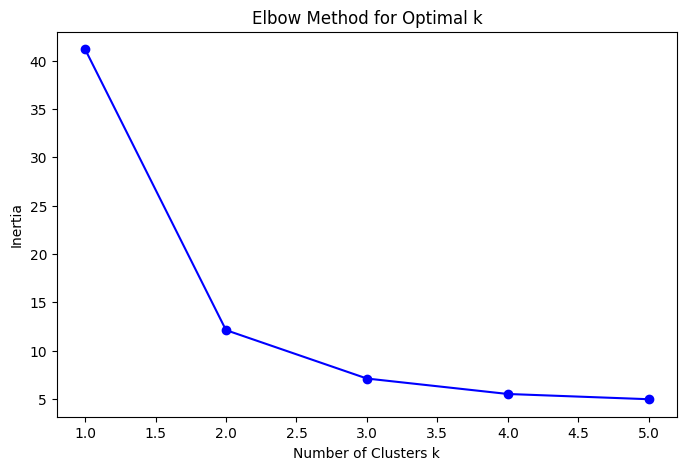
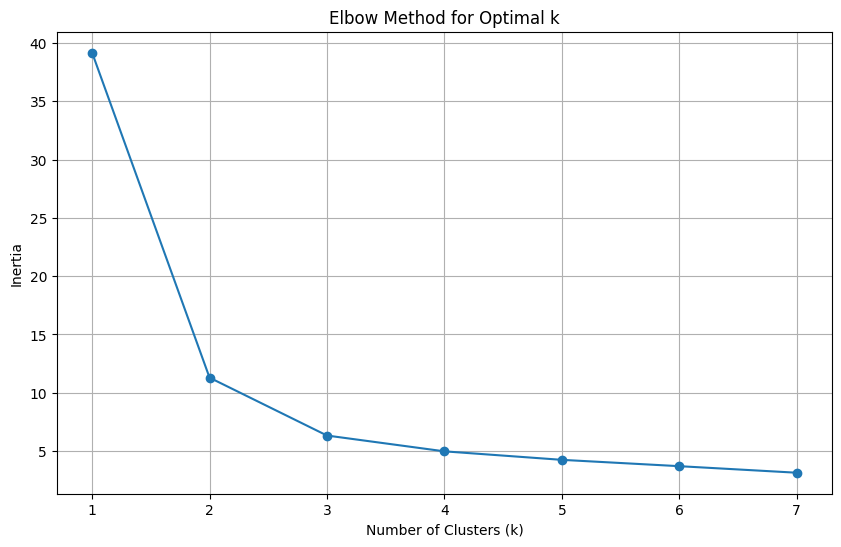
Folde Reame and visualization images

diff --git a/README.md b/README.md
@@ -353,13 +353,204 @@ The bar chart titled *"Top 10 Countries by Total Sales"* displays the total sale
 
 
 ---
+# *Section-2*
+## *Task 1: Iris Data Preprocessing and Exploration*
+
+### *Step 1: Load the Iris dataset*
+```python
+iris = load_iris()
+# Map numeric labels to actual species names for clarity
+iris_df['species'] = iris_df['species'].map({0:'setosa', 1:'versicolor', 2:'virginica'})
+
+# Display first 5 rows
+print("First 5 rows of the dataset:")
+iris_df.head()
+```
+
+![alt text](Section_2\Output_screenshoot\image.png)
+
+### *Step 2:Data Preprocessing*
+```python
+print("\nMissing values in each column:")
+print(iris_df.isnull().sum())
+```
+
+![alt text](Section_2\Output_screenshoot\image1.png)
+### *b) Normalize Features Using Min-Max Scaling and Encoding*
+```python
+scaler = MinMaxScaler()
+iris_scaled = iris_df.copy()
+iris_scaled [iris.feature_names] = scaler.fit_transform(iris_df[iris.feature_names])
+iris_scaled.head()
+# 2c: Encode class labels if needed (label encoding shown here)
+label_encoder = LabelEncoder()
+iris_df['species_encoded'] = label_encoder.fit_transform(iris_df['species'])
+
+```
+![alt text](Section_2\Output_screenshoot\image2.png)
+### *Step 3: Data Exploration*
+
+![alt text](Section_2\Output_screenshoot\image3.png)
+
+### *Interpret the Summary Statistics*
+
+- *The summary statistics indicate that all features—sepal length, sepal width, petal length, and petal width—have been normalized to the range \[0, 1] using Min-Max scaling*
+
+- *The feature means are approximately 0.43–0.47, and standard deviations range from 0.18 to 0.32, reflecting moderate variability among samples.* 
+
+- *The medians (50th percentile) show that sepal length and width are balanced around 0.42, whereas petal length and width are slightly higher, highlighting differences across species.*
+
+- *This preprocessing ensures that all features contribute equally to models such as K-Means, Decision Tree, or KNN, and prevents bias from differently scaled features.*
+
+## *3b: Visualizations*
+### *Pairplot*
+
+![alt text](Section_2\Visualization\pair_plot.png)
+### *Plot Components*
+
+* *Diagonal (KDE plots):* Show distribution of each variable.
+  *Example:* *Setosa* has smaller `sepal length` than *virginica*, with *versicolor* in between.
+
+* *Off-diagonal (Scatter plots):* Show pairwise relationships between variables.
+  *Example:* `sepal width` vs. `sepal length` highlights some overlap between *versicolor* and *virginica*.
 
 
 
-## *Instructions to Run*
+### *Key Insights*
 
+* *Petal measurements:* Excellent predictors; *setosa* is clearly separable, while *versicolor* and *virginica* mostly separate.
+* *Sepal measurements:* Less effective; significant overlap between *versicolor* and *virginica*.
+* *Correlations:* Strong positive correlation between `petal length` and `petal width`; moderate correlation between `sepal length` and petal features.
+### *Correlation heatmap*
+![alt text](Section_2\Visualization\Feature_correlation.png)
+
+### *Key Insights*
+
+* *Strongest Positive Correlation:*
+
+  * *`petal length (cm)` ↔ `petal width (cm)` → **0.96***
+  * *Extremely strong, consistent upward relationship. Matches the tight, sloped cluster seen in pair plots.*
+
+* *Other Strong Positive Correlations:*
+
+  * *`sepal length (cm)` ↔ `petal length (cm)` → **0.87***
+  * *`sepal length (cm)` ↔ `petal width (cm)` → **0.82***
+  * *Longer sepals are typically paired with longer and wider petals.*
+
+* *Moderate Negative Correlations:*
+
+  * *`sepal width (cm)` ↔ `petal length (cm)` → **-0.43***
+  * *`sepal width (cm)` ↔ `petal width (cm)` → **-0.37***
+  * *Wider sepals tend to correspond to smaller petals.*
+
+* *Very Weak Correlation:*
+
+  * *`sepal length (cm)` ↔ `sepal width (cm)` → **-0.12***
+  * *Almost no linear relationship; scatter plot appears random.*
+
+### *3c: Identify potential outliers using boxplots*
+![alt text](Section_2\Visualization\Box_plot_Features.png)
+## *Handling Outliers using IQR*
+![alt text](Section_2\Output_screenshoot\image4.png)
+
+### *Step 4: Train/Test Split Function*
+```python
+from sklearn.model_selection import train_test_split
+X = iris_no_outliers[iris.feature_names]
+y = iris_no_outliers['species']
+X_train, X_test, y_train, y_test = train_test_split(X, y, test_size=0.2, random_state=42)
+print("Training set size:", X_train.shape[0])
+print("Testing set size:", X_test.shape[0])
+```
+`Training set size: 116`
+`Testing set size: 30`
+
+
+
+# *Task 2: Clustering with K-Means*
+### *Loading the preprocced data*
+
+![alt text](Section_2\Output_screenshoot\image5.png)
+
+
+## *2a: K-Means Clustering with ARI Evaluation*
+
+`Adjusted Rand Index (k=3): 0.7041`
+## *2b: Experiment with k=2 and k=4; Elbow curve*
+
+*Try different numbers of clusters (k) to find the optimal value. sanity check + sensitivity.*
+
+*k=2 -> algorithm merges to two real species.*
+
+*k=4 -> over segmentation*
+
+`Adjusted Rand Index (k=2): 0.5555`
+
+`Adjusted Rand Index (k=4): 0.6072`
+
+## *3. Elbow Curve for Optimal k*
+![alt text](Section_2\Visualization\Elbow_curve.png)
+
+
+*Key Observations*:
+- The curve shows a sharp decrease in WCSS from k=1 to k=2 and k=2 to k=3
+- The "elbow" (point where the rate of decrease sharply changes) appears at k=3
+- Beyond k=3, adding more clusters provides diminishing returns
+
+*Interpretation*:
+- The optimal number of clusters for this dataset is *k=3*
+- This aligns perfectly with the known structure of the Iris dataset which has 3 species
+- The plot confirms that 3 clusters capture the natural grouping in the data most effectively
+
+## *2c: Visualize clusters (petal length vs width) for k=3*
+![alt text](Section_2\Visualization\K_means.png)
+### *Interpretation of the Clusters*
+
+The K-Means algorithm grouped the data points based on proximity in the petal length/width feature space:
+
+- *Cluster 1 (Blue):* Located in the bottom-left. Data points have **low petal length** (~0.0–0.2 cm) and **low petal width** (~0.0–0.2 cm). Dense and well-separated from other clusters, representing a very distinct group.  
+
+- *Cluster 2 (Green):* Central region. Points have **intermediate petal length** (~0.3–0.75 cm) and **intermediate petal width** (~0.3–0.8 cm).  
+
+- *Cluster 0 (Red):* Upper-right region. Points have **high petal length** (~0.6–1.0 cm) and **high petal width** (~0.6–1.0 cm).
+
+
+
+### *Contingency Table (True vs Predicted)*
+| True       | Cluster 0 | Cluster 1 | Cluster 2 |
+| ---------- | --------- | --------- | --------- |
+| Setosa     | 0         | 0         | 47        |
+| Versicolor | 46        | 3         | 0         |
+| Virginica  | 14        | 36        | 0         |
+
+*Cluster 1 perfectly captured species 0 (Setosa).*
+
+*Species 1 (Versicolor) mostly went to Cluster 2, with 3 misclassified as Cluster 0.*
+
+*Species 2 (Virginica) is split across Clusters 0 and 2, showing significant overlap with Versicolor.*
+
+*Misclassifications are mainly due to feature overlap between Versicolor and Virginica.*
+### `Analysis of the clustering`
+
+---
+*K-Means clustering on the preprocessed Iris dataset achieved an Adjusted Rand Index (ARI) of 0.7163, capturing the main structure of the data but not perfectly. Cluster 1 clearly identified Setosa, while Versicolor and Virginica were partially mixed, as reflected in the contingency table where some Versicolor and Virginica samples were misclassified. Cluster centers show Setosa’s small petal sizes in Cluster 1, with overlapping Versicolor and Virginica samples in Clusters 0 and 2, highlighting differences in species variance. These results illustrate real-world challenges, such as borderline cases in customer segmentation, and indicate that synthetic preprocessing and normalization helped scale features evenly but cannot fully resolve intrinsic overlaps, limiting clustering accuracy.*
+
+---
+**Real-World Implications**
+*K-Means effectively separates well-defined groups (like Setosa) but struggles with overlapping classes (Versicolor vs Virginica). In practice, this mirrors customer segmentation or product categorization where distinct groups are easy to cluster, but borderline cases may require additional features or more sophisticated models. Synthetic scaling or preprocessing can influence cluster placement and reduce variance effects, but it cannot completely resolve intrinsic overlaps in the data.*
+
+### Analysis of the clustering
+
+*K-Means clustering with k=3 achieved an Adjusted Rand Index of 0.7041, showing high agreement with actual species labels. k=2 reduced ARI to 0.5555, meaning species distinctions were lost when merged into fewer groups. k=4 slightly lowered ARI to 0.6072, likely due to over-segmentation. The elbow curve confirms k=3 as optimal.*
+
+*Cluster visualization of petal length vs. petal width reveals clear separation for Setosa, with some overlap between Versicolor and Virginica, explaining misclassifications. These overlaps arise because K-Means assumes spherical clusters with similar variance, which may not hold perfectly in biological datasets.*
+
+---
+
+---
 1. Clone the repository:
-
+## Instruction to run
+```
 ```bash
 git clone https://github.com/<YourUsername>/DSA-2040_Practical_Exam_SnitTeshome552.git
 cd DSA-2040_Practical_Exam_SnitTeshome552
